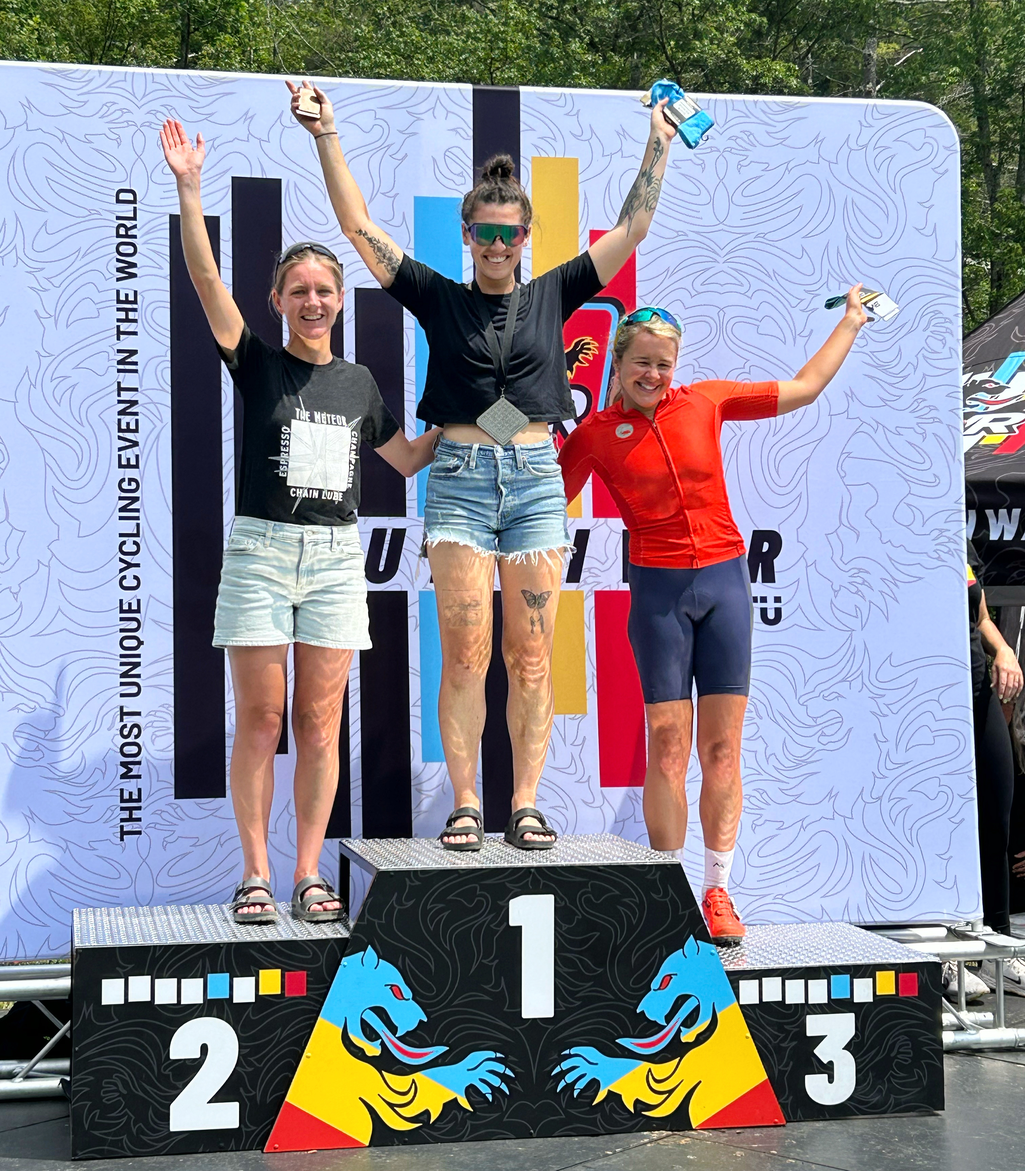
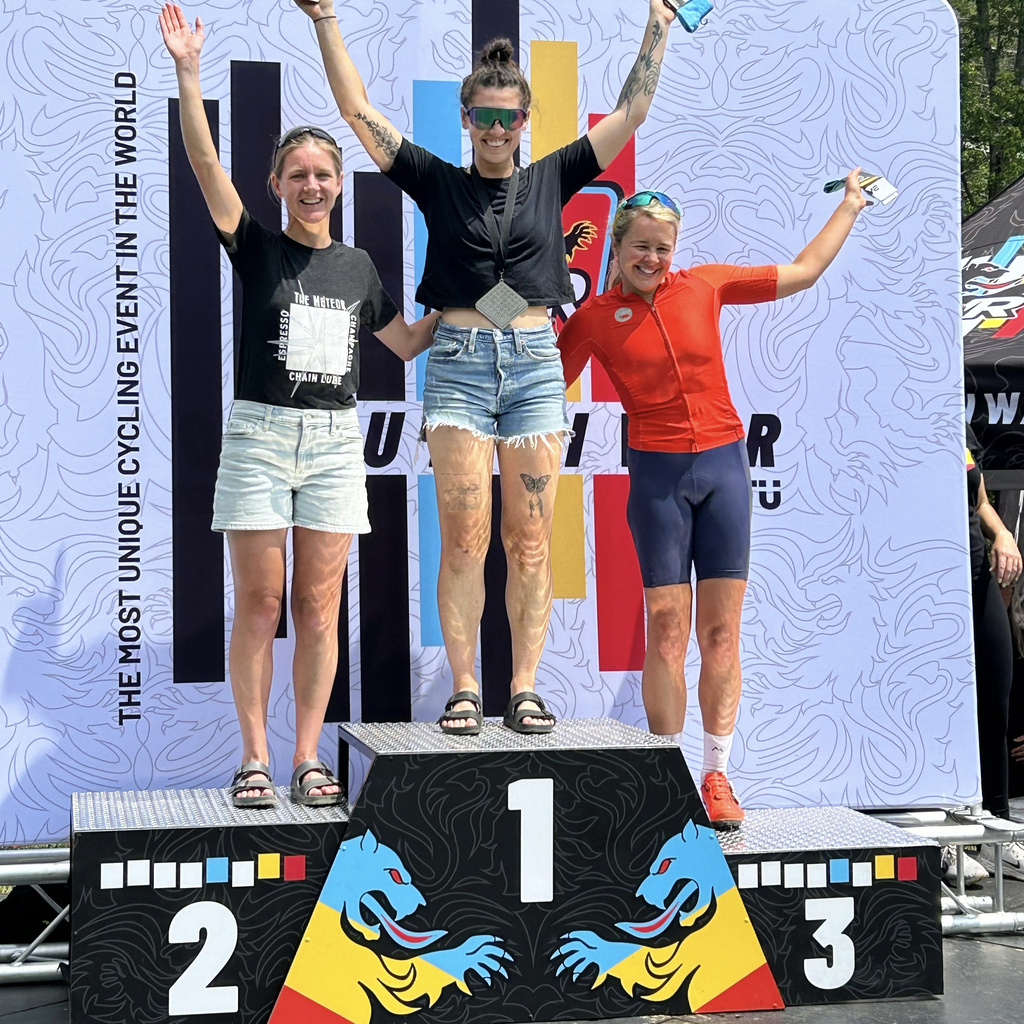
updated img files for bwr and dd so all text lines up

diff --git a/src/components/Races.js b/src/components/Races.js
@@ -20,7 +20,7 @@ function Races() {
         {
             title: 'BWR North Carolina',
             type: 'Unroad Race',
-            image: require('../assets/images/cycling/bwr-nc_2023.JPG'),
+            image: require('../assets/images/cycling/bwr-nc_2023.jpg'),
             result: '2nd Place Womens 23-34, 7th Place Womens Overall',
             miles: '78',
             feetClimbing: '9,000',
@@ -104,7 +104,7 @@ function Races() {
         {
             title: 'Dirt Diggler',
             type: 'Gravel Race',
-            image: require('../assets/images/cycling/dirt-diggler_2021.JPG'),
+            image: require('../assets/images/cycling/dirt-diggler_2021-v2.jpg'),
             result: '3rd Place Womens open',
             miles: '27',
             feetClimbing: '2,500',
